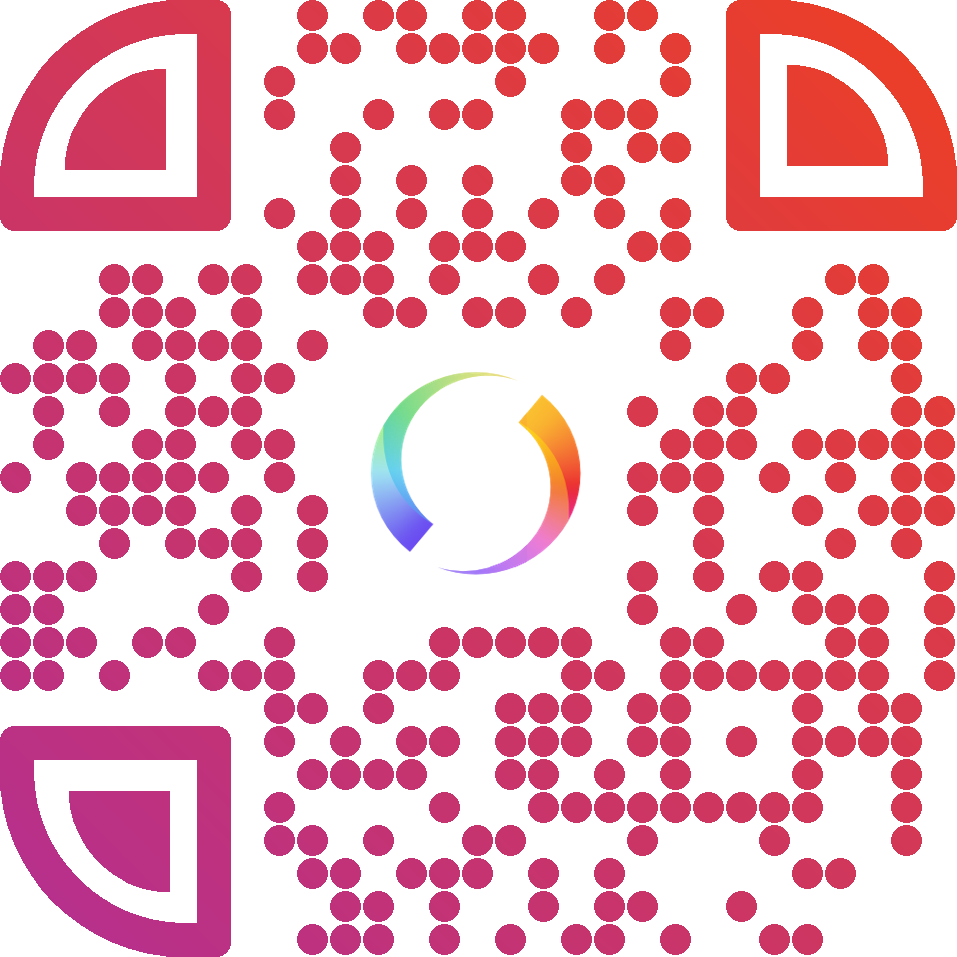
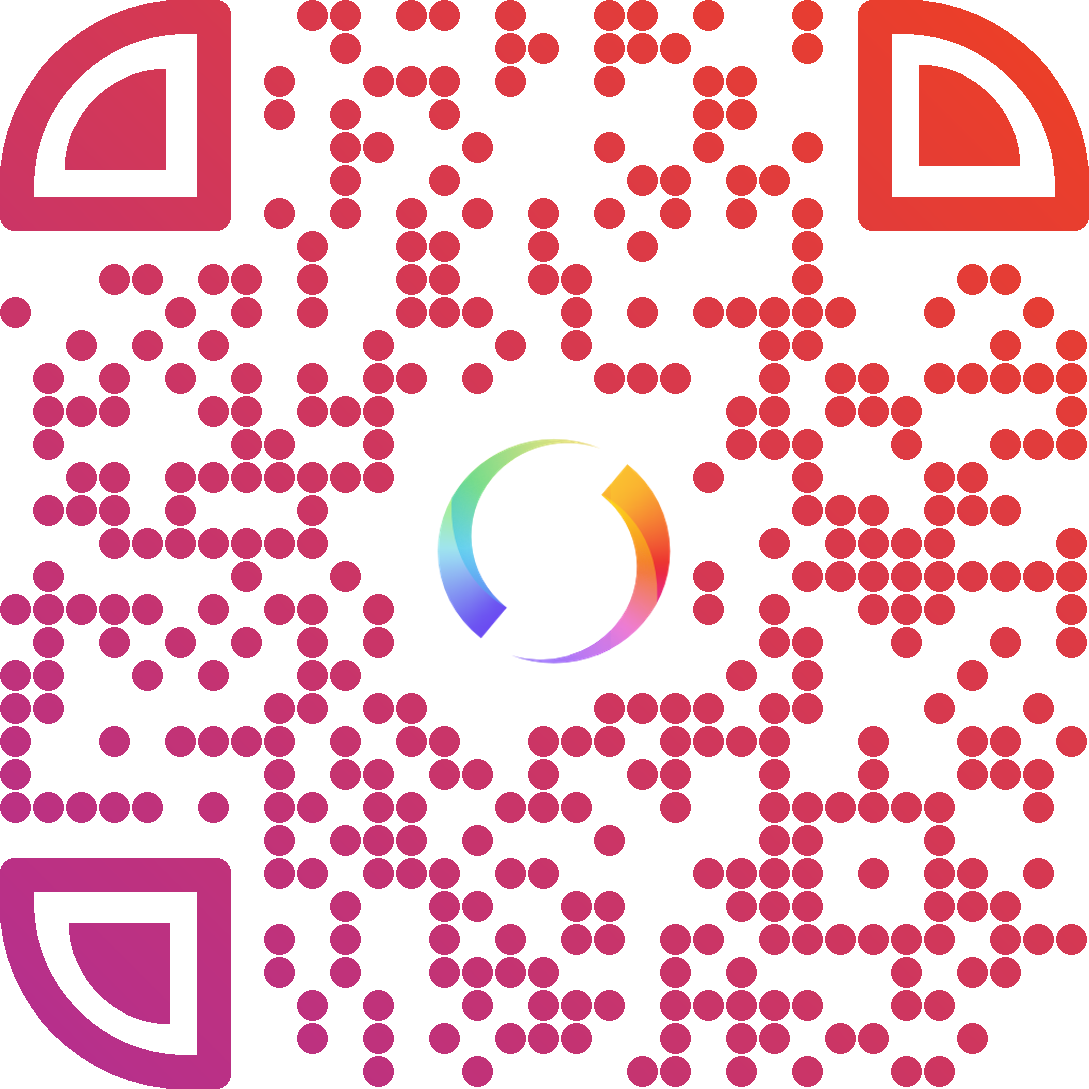
changed sample

diff --git a/sample.py b/sample.py
@@ -4,8 +4,7 @@ from swish_qr import generate_swish_code
 svg_bytes = generate_swish_code(
     "0123456789",
     100.99,
-    # "12345678901234567890123456789012345678901234567890",
-    "1",
+    "Test message!",
     format="svg",
 )
 with open("sample.svg", "wb") as f:
@@ -15,8 +14,7 @@ with open("sample.svg", "wb") as f:
 png_bytes = generate_swish_code(
     "0123456789",
     100.99,
-    # "12345678901234567890123456789012345678901234567890",
-    "1",
+    "Test message!",
     format="png",
 )
 with open("sample.png", "wb") as f:
